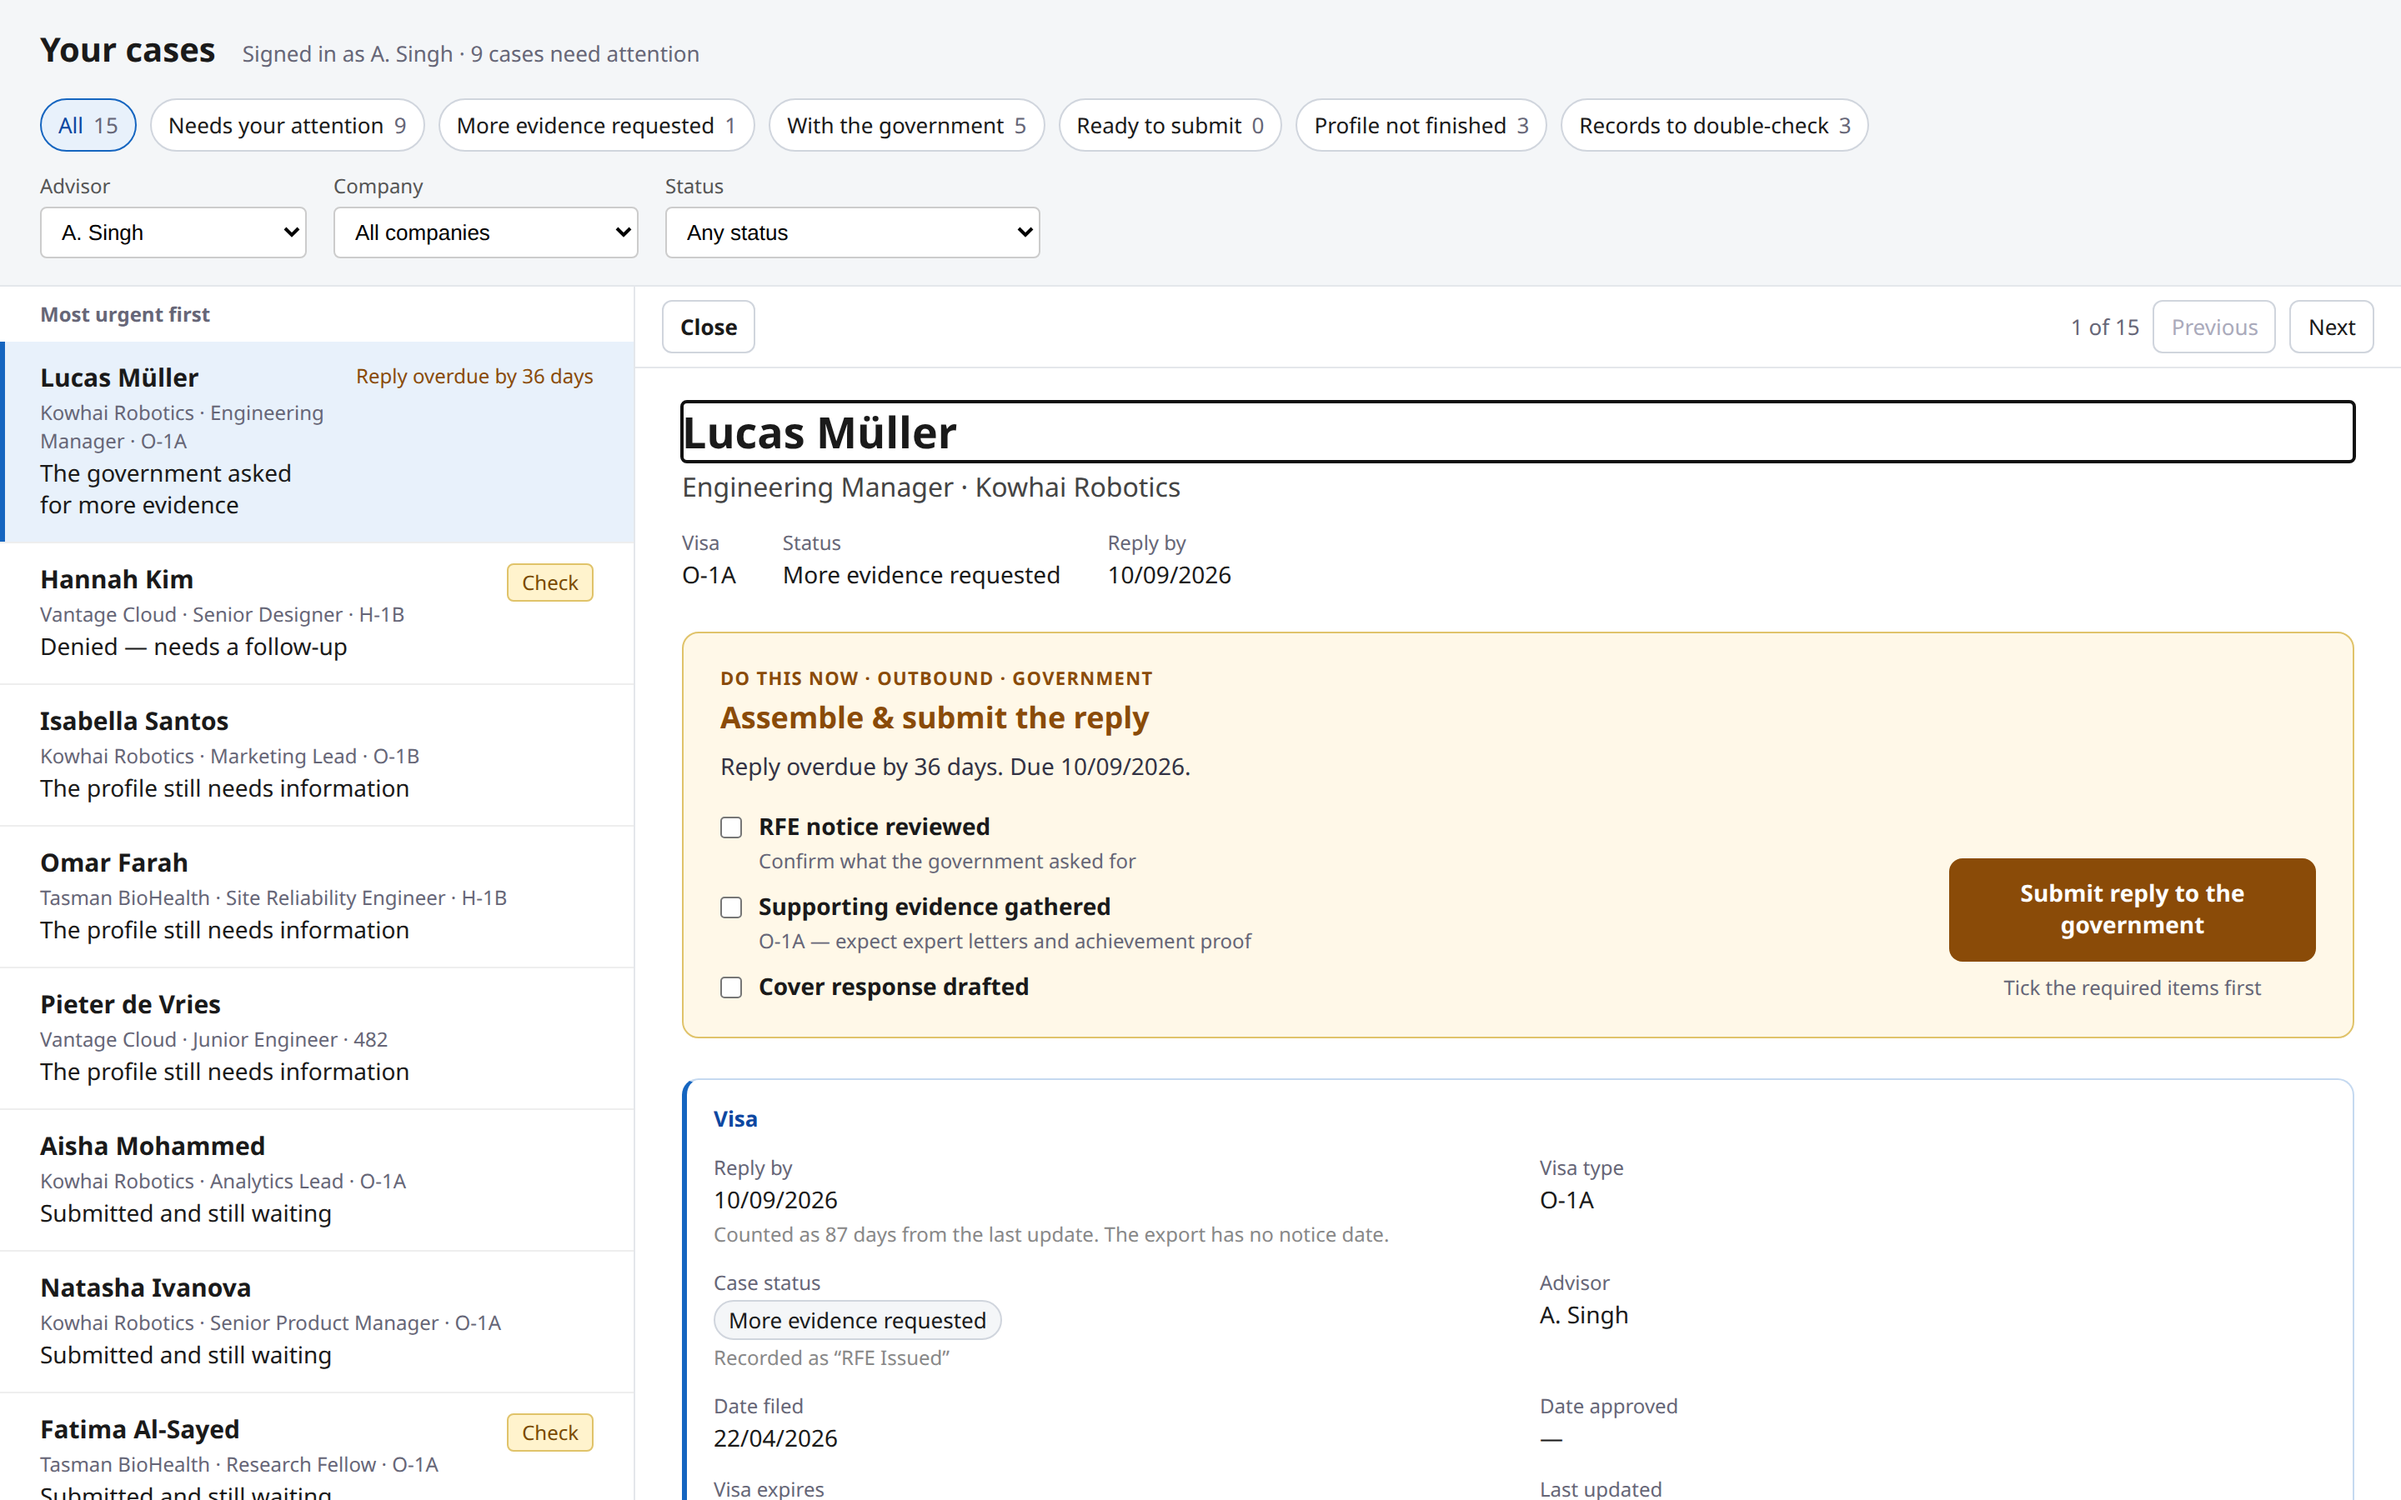
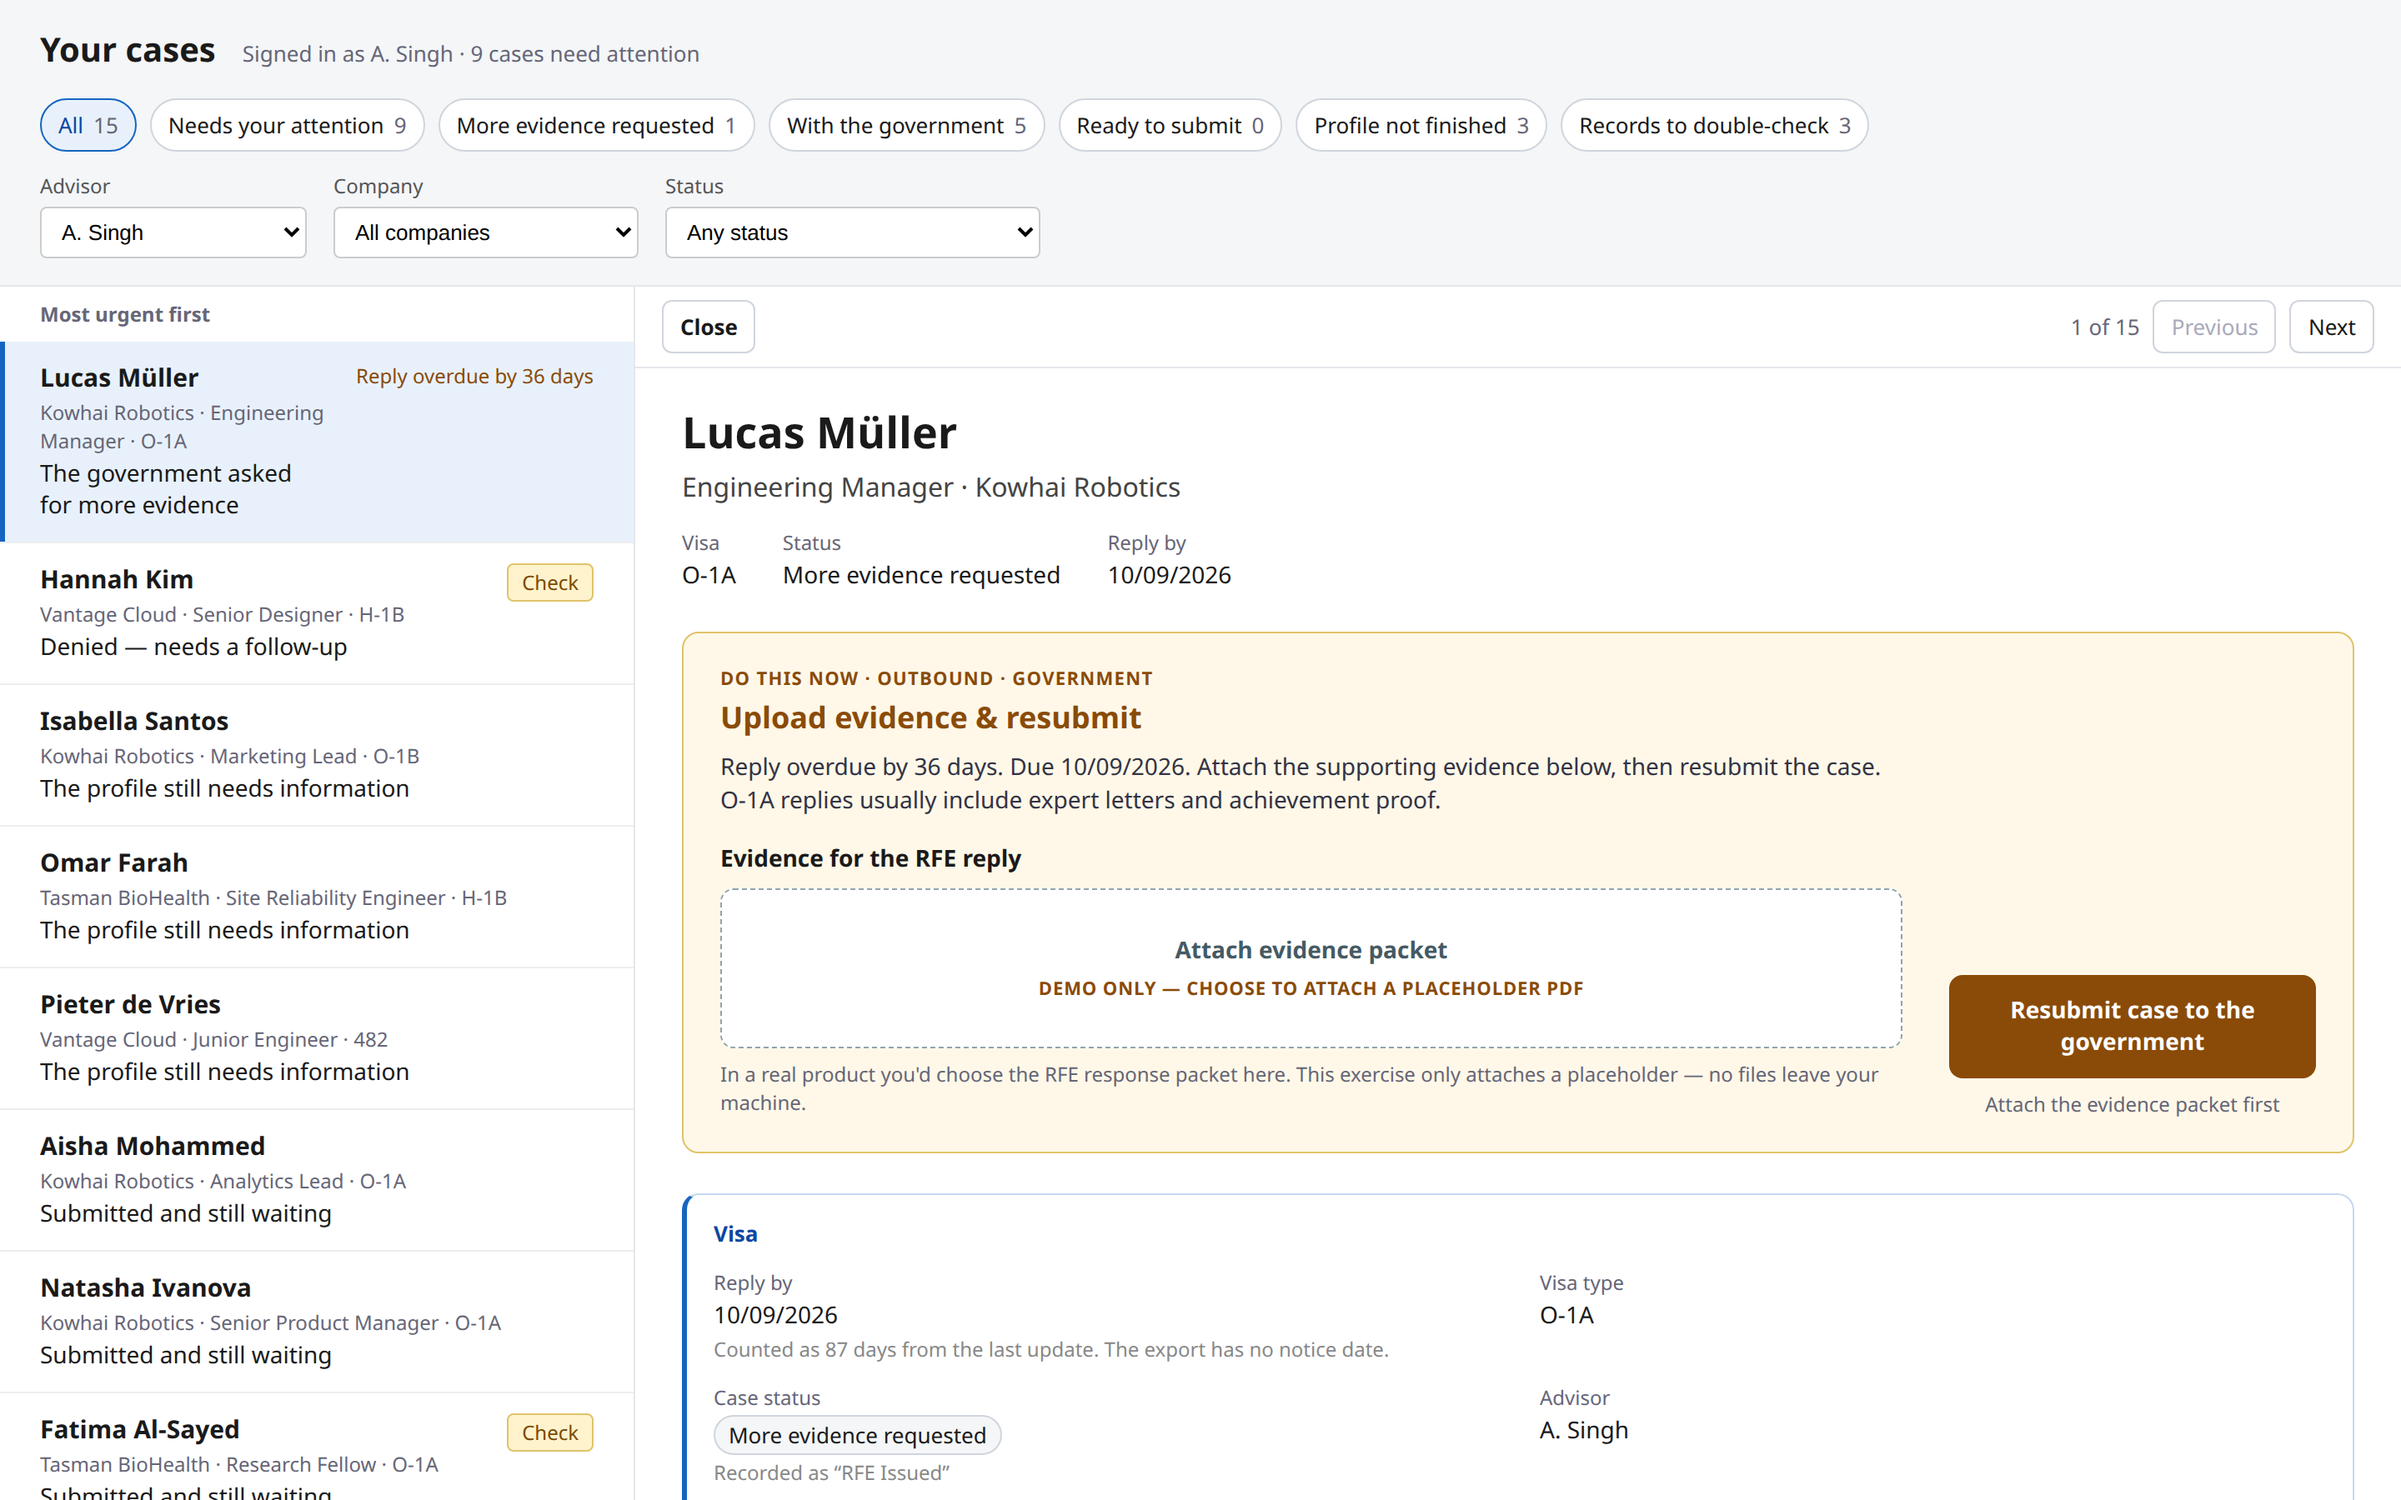
Clarify RFE evidence upload and drop case-name focus ring
Show an attachable demo dropzone on RFE cases so the upload step is
obvious before resubmit, and stop autofocusing the case heading on
open/reload so the name no longer gets a focus border.

diff --git a/src/components/action-desk.tsx b/src/components/action-desk.tsx
@@ -52,6 +52,7 @@ function destinationLabel(plan: ActionPlan): string {
  */
 export function ActionDesk({ plan, nextCaseId, onComplete }: ActionDeskProps) {
   const [checked, setChecked] = useState(() => new Set<string>());
+  const [attached, setAttached] = useState(false);
   const [phase, setPhase] = useState<"ready" | "sending" | "done">("ready");
 
   useEffect(() => {
@@ -74,8 +75,9 @@ export function ActionDesk({ plan, nextCaseId, onComplete }: ActionDeskProps) {
     return () => window.clearTimeout(timer);
   }, [nextCaseId, onComplete, phase]);
 
-  // Upload workflows always carry demo evidence — no real File is involved.
-  const ready = allRequiredChecked(plan.checklist, checked);
+  // Upload workflows use a demo attach only — no real File is involved.
+  const uploadReady = !plan.upload || attached;
+  const ready = uploadReady && allRequiredChecked(plan.checklist, checked);
   const urgent = plan.urgent && phase === "ready";
   const busy = phase !== "ready";
 
@@ -124,23 +126,43 @@ export function ActionDesk({ plan, nextCaseId, onComplete }: ActionDeskProps) {
           <div className="action-desk-upload">
             <p className="action-desk-upload-label">{plan.upload.label}</p>
             {/*
-              Disabled file input on purpose: this exercise must not accept
-              real uploads. Demo evidence is always pre-attached below.
+              Real file selection is blocked on purpose. Clicking the dropzone
+              only attaches a placeholder packet so the resubmit flow is usable.
             */}
-            <label className="action-desk-dropzone action-desk-dropzone-disabled">
-              <input
-                accept=".pdf,.zip,.png,.jpg,.jpeg"
-                disabled
-                tabIndex={-1}
-                type="file"
-              />
-              <span className="action-desk-dropzone-file">
-                {plan.upload.demoFileName}
-                <span className="action-desk-dropzone-badge">
-                  Demo evidence — not uploaded
+            {attached ? (
+              <>
+                <div className="action-desk-dropzone action-desk-dropzone-disabled">
+                  <span className="action-desk-dropzone-file">
+                    {plan.upload.demoFileName}
+                    <span className="action-desk-dropzone-badge">
+                      Demo evidence — not uploaded
+                    </span>
+                  </span>
+                </div>
+                <button
+                  className="action-desk-upload-clear"
+                  disabled={busy}
+                  onClick={() => setAttached(false)}
+                  type="button"
+                >
+                  Remove attachment
+                </button>
+              </>
+            ) : (
+              <button
+                className="action-desk-dropzone"
+                disabled={busy}
+                onClick={() => setAttached(true)}
+                type="button"
+              >
+                <span className="action-desk-dropzone-prompt">
+                  Attach evidence packet
+                  <span className="action-desk-dropzone-badge">
+                    Demo only — choose to attach a placeholder PDF
+                  </span>
                 </span>
-              </span>
-            </label>
+              </button>
+            )}
             <p className="action-desk-upload-hint">{plan.upload.hint}</p>
           </div>
         ) : null}
@@ -195,7 +217,11 @@ export function ActionDesk({ plan, nextCaseId, onComplete }: ActionDeskProps) {
           {plan.cta}
         </button>
         <p className="action-desk-hint">
-          {ready ? plan.demoNote : "Tick the required items first"}
+          {ready
+            ? plan.demoNote
+            : plan.upload && !attached
+              ? "Attach the evidence packet first"
+              : "Tick the required items first"}
         </p>
       </div>
     </section>

diff --git a/src/pages/case-page.tsx b/src/pages/case-page.tsx
@@ -1,4 +1,4 @@
-import { type ReactNode, useEffect, useRef } from "react";
+import type { ReactNode } from "react";
 import { useCaseNav } from "../case-nav";
 import { ActionDesk } from "../components/action-desk";
 import { buildActionPlan } from "../data/action-desk";
@@ -208,14 +208,6 @@ function finishAction(nextCaseId?: string) {
 export function CasePage({ employeeId, rows, loadState }: CasePageProps) {
   const { nextCaseId } = useCaseNav();
   const row = rows.find((candidate) => candidate.employee_id === employeeId);
-  const headingRef = useRef<HTMLHeadingElement>(null);
-
-  useEffect(() => {
-    if (loadState === "loading" || !employeeId) {
-      return;
-    }
-    headingRef.current?.focus();
-  }, [employeeId, loadState]);
 
   if (!row) {
     if (loadState === "loading") {
@@ -227,7 +219,7 @@ export function CasePage({ employeeId, rows, loadState }: CasePageProps) {
     }
     return (
       <div className="case-panel">
-        <h1 ref={headingRef} tabIndex={-1}>
+        <h1>
           {loadState === "error" ? COPY.LOAD_FAILED : COPY.CASE_NOT_FOUND}
         </h1>
         {loadState === "ready" ? (
@@ -248,9 +240,7 @@ export function CasePage({ employeeId, rows, loadState }: CasePageProps) {
   return (
     <div className="case-panel">
       <header className="case-heading">
-        <h1 ref={headingRef} tabIndex={-1}>
-          {row.full_name}
-        </h1>
+        <h1>{row.full_name}</h1>
         <p>{[row.job_title, row.company].filter(Boolean).join(" · ")}</p>
         <dl className="key-facts">
           {keyFacts(row, reply).map((fact) => (

diff --git a/src/data/action-desk.ts b/src/data/action-desk.ts
@@ -104,15 +104,15 @@ function submitEvidence(row: EmployeeRow, reply: ReplyClock): ActionPlan {
     checklist: [],
     cta: "Resubmit case to the government",
     demoNote:
-      "Demo only — evidence upload is disabled here, and nothing is submitted.",
+      "Demo only — nothing is uploaded or submitted to the government.",
     destination: "government",
-    detail: `${dueLine} Upload the supporting evidence, then resubmit the case.${o1aHint}`,
+    detail: `${dueLine} Attach the supporting evidence below, then resubmit the case.${o1aHint}`,
     doneLabel: DEMO.doneGovNext,
     kind: "submitEvidence",
     title: "Upload evidence & resubmit",
     upload: {
       demoFileName: "rfe-evidence-pack.pdf",
-      hint: "Demo evidence is pre-attached. In a real product you'd choose the RFE response packet here — this exercise cannot accept files.",
+      hint: "In a real product you'd choose the RFE response packet here. This exercise only attaches a placeholder — no files leave your machine.",
       label: "Evidence for the RFE reply",
     },
     urgent: reply.overdue,

diff --git a/src/index.css b/src/index.css
@@ -572,13 +572,25 @@ th {
   display: flex;
   align-items: center;
   justify-content: center;
+  width: 100%;
   min-height: 96px;
   padding: 16px;
+  font: inherit;
   text-align: center;
   cursor: pointer;
   background: #fff;
   border: 1.5px dashed #90a4ae;
   border-radius: 8px;
+}
+
+.action-desk-dropzone:hover:not(:disabled):not(.action-desk-dropzone-disabled) {
+  background: #f7fafc;
+  border-color: #607d8b;
+}
+
+.action-desk-dropzone:disabled {
+  cursor: not-allowed;
+  opacity: 0.7;
 }
 
 .action-desk-dropzone-disabled {

diff --git a/README.md b/README.md
@@ -17,8 +17,8 @@ what needs attention, open a case, and take the next action.
 - **Alerts** — overdue reply signals, “Check” badges for messy records, and
   on-case callouts (e.g. denied-but-still-has-an-approval-date).
 - **Action desk (“Do this now”)** — interactive checklist + outbound-style CTA per
-  case state (RFE reply, file petition, request profile, denial follow-up,
-  withdrawal confirm). Demo only — nothing is sent.
+  case state (RFE reply with demo evidence upload, file petition, request
+  profile, denial follow-up, withdrawal confirm). Demo only — nothing is sent.
 
 ### Data / engineering
 
@@ -39,7 +39,7 @@ what needs attention, open a case, and take the next action.
   <img alt="RFE case with Do this now action desk" src="docs/screenshots/02-action-desk-rfe.png" width="100%" />
 </p>
 
-*Case detail — overdue RFE with the action desk checklist and submit CTA.*
+*Case detail — overdue RFE with the evidence upload dropzone and resubmit CTA.*
 
 <p>
   <img alt="Records to double-check filter with data quality alert" src="docs/screenshots/03-alerts-and-warnings.png" width="100%" />
